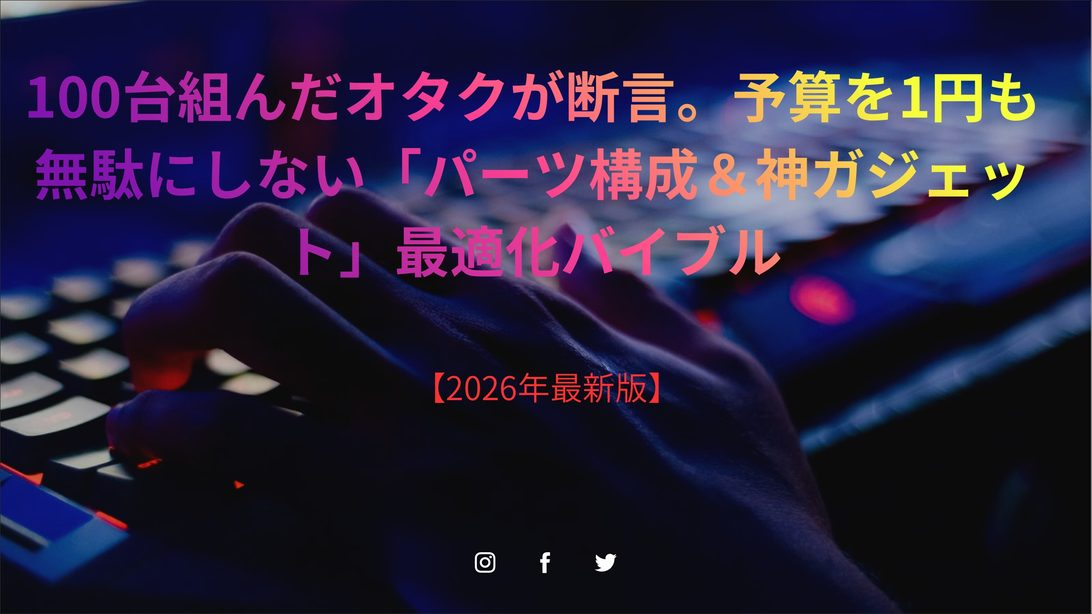
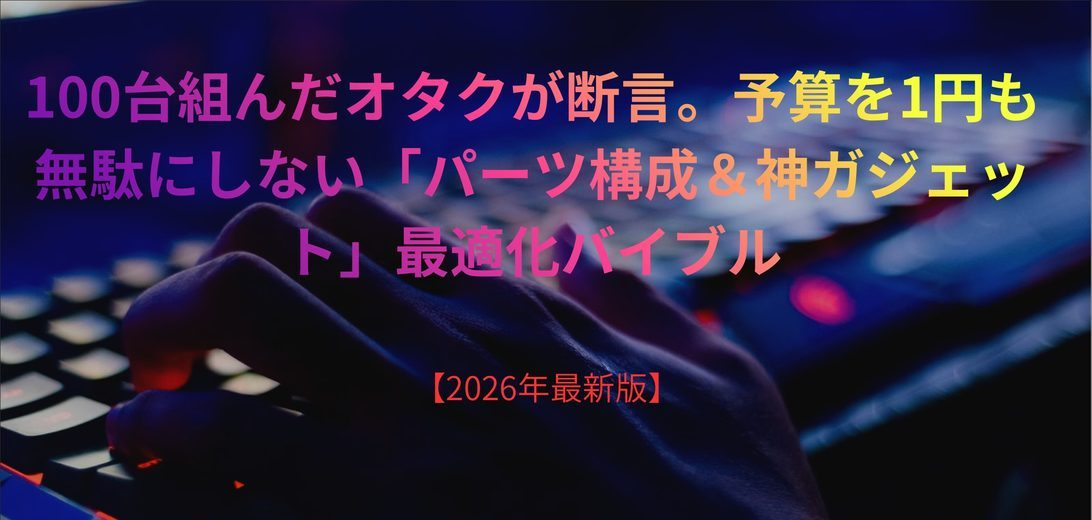
リンク集に Android アプリ4本を個別に載せ、黄金構成比の表紙のアイコンの帯を除き、ペーパーバックのボタンから価格を外した
- links(日英中): 公開中の MediaToolbox・PDF Toolkit・らくらく歩数計・Readshot のカードを追加
- book-pc-parts-bible.jpg を 1092×520 に切り取り(下端の SNS アイコンの帯を除く)、img の height を 520 に
- MY 100 DIVES のボタンを「Amazon でペーパーバックを見る」に(en・zh も価格なし)
- script.js: kindle_click にペーパーバックを含む旨の注記(名前は変えない)
- docs/sns-utm.md に product_promo_202611 を追記、sitemap の lastmod を更新

diff --git a/links/index.html b/links/index.html
@@ -131,6 +131,10 @@
 
       <h2>Androidアプリ</h2>
       <ul class="links-list">
+        <li><a class="links-btn" href="/apps/mediatoolbox/"><img src="/assets/img/mediatoolbox-icon.png" alt="" width="252" height="252" loading="lazy" decoding="async"><span class="links-btn-text"><span class="links-btn-title">MediaToolbox</span><span class="links-btn-sub">動画・画像・音声・PDFをまとめて変換できる、シンプルなマルチメディア変換ツール</span><span class="links-btn-price">無料(広告あり・買い切りで広告を非表示)</span></span></a></li>
+        <li><a class="links-btn" href="/apps/pdftoolkit/"><img src="/assets/img/pdftoolkit-icon.png" alt="" width="252" height="252" loading="lazy" decoding="async"><span class="links-btn-text"><span class="links-btn-title">PDF Toolkit</span><span class="links-btn-sub">スキャン・結合・分割・圧縮・OCR文字認識まで、PDFのよくある作業をこれ1つで</span><span class="links-btn-price">無料(広告あり・PRO版の買い切りで広告・透かしなし)</span></span></a></li>
+        <li><a class="links-btn" href="/apps/seniorpedometer/"><img src="/assets/img/seniorpedometer-icon.png" alt="" width="252" height="252" loading="lazy" decoding="async"><span class="links-btn-text"><span class="links-btn-title">らくらく歩数計</span><span class="links-btn-sub">ボタン操作は不要。自動で歩数を記録する、シニアにやさしい歩数計アプリ</span><span class="links-btn-price">無料(広告あり・アプリ内の課金なし)</span></span></a></li>
+        <li><a class="links-btn" href="/apps/readshot/"><img src="/assets/img/readshot-icon.png" alt="" width="252" height="252" loading="lazy" decoding="async"><span class="links-btn-text"><span class="links-btn-title">Readshot</span><span class="links-btn-sub">スクリーンショットを撮るだけで自動的に文字を読み取る、OCR内蔵のスクリーンショット管理アプリ</span><span class="links-btn-price">無料(広告あり・アプリ内の課金なし)</span></span></a></li>
         <li><a class="links-btn" href="/apps/"><span class="links-btn-text"><span class="links-btn-title">Androidアプリ一覧</span><span class="links-btn-sub">MediaToolbox・PDF Toolkit・らくらく歩数計・Readshot など</span><span class="links-btn-price">無料でダウンロードできます(ほとんどのアプリに広告があります)</span></span></a></li>
       </ul>
 

diff --git a/en/links/index.html b/en/links/index.html
@@ -131,6 +131,10 @@
 
       <h2>Android apps</h2>
       <ul class="links-list">
+        <li><a class="links-btn" href="/en/apps/mediatoolbox/"><img src="/assets/img/mediatoolbox-icon.png" alt="" width="252" height="252" loading="lazy" decoding="async"><span class="links-btn-text"><span class="links-btn-title">MediaToolbox</span><span class="links-btn-sub">A simple multimedia conversion tool that handles video, images, audio, and PDFs all in one place</span><span class="links-btn-price">Free (with ads; a one-time purchase removes them)</span></span></a></li>
+        <li><a class="links-btn" href="/en/apps/pdftoolkit/"><img src="/assets/img/pdftoolkit-icon.png" alt="" width="252" height="252" loading="lazy" decoding="async"><span class="links-btn-text"><span class="links-btn-title">PDF Toolkit</span><span class="links-btn-sub">Scan, merge, split, compress, and recognize text with OCR — the everyday PDF tasks, all in one app</span><span class="links-btn-price">Free (with ads; one-time PRO removes ads and watermark)</span></span></a></li>
+        <li><a class="links-btn" href="/en/apps/seniorpedometer/"><img src="/assets/img/seniorpedometer-icon.png" alt="" width="252" height="252" loading="lazy" decoding="async"><span class="links-btn-text"><span class="links-btn-title">Rakuraku Step Counter</span><span class="links-btn-sub">No buttons to press — automatic step tracking designed to be easy for seniors</span><span class="links-btn-price">Free (with ads; no in-app purchases)</span></span></a></li>
+        <li><a class="links-btn" href="/en/apps/readshot/"><img src="/assets/img/readshot-icon.png" alt="" width="252" height="252" loading="lazy" decoding="async"><span class="links-btn-text"><span class="links-btn-title">Readshot</span><span class="links-btn-sub">Just take a screenshot and it automatically reads the text — a screenshot manager with built-in OCR</span><span class="links-btn-price">Free (with ads; no in-app purchases)</span></span></a></li>
         <li><a class="links-btn" href="/en/apps/"><span class="links-btn-text"><span class="links-btn-title">All Android apps</span><span class="links-btn-sub">MediaToolbox, PDF Toolkit, Rakuraku Step Counter, Readshot and more</span><span class="links-btn-price">Free to download (most of the apps show ads)</span></span></a></li>
       </ul>
 

diff --git a/zh/links/index.html b/zh/links/index.html
@@ -131,6 +131,10 @@
 
       <h2>Android应用</h2>
       <ul class="links-list">
+        <li><a class="links-btn" href="/zh/apps/mediatoolbox/"><img src="/assets/img/mediatoolbox-icon.png" alt="" width="252" height="252" loading="lazy" decoding="async"><span class="links-btn-text"><span class="links-btn-title">MediaToolbox</span><span class="links-btn-sub">可一站式转换视频・图片・音频・PDF的简易多媒体转换工具</span><span class="links-btn-price">免费（含广告；一次性买断可去除广告）</span></span></a></li>
+        <li><a class="links-btn" href="/zh/apps/pdftoolkit/"><img src="/assets/img/pdftoolkit-icon.png" alt="" width="252" height="252" loading="lazy" decoding="async"><span class="links-btn-text"><span class="links-btn-title">PDF Toolkit</span><span class="links-btn-sub">扫描・合并・拆分・压缩・OCR文字识别，PDF的日常操作一个应用全搞定</span><span class="links-btn-price">免费（含广告；PRO买断版去除广告和水印）</span></span></a></li>
+        <li><a class="links-btn" href="/zh/apps/seniorpedometer/"><img src="/assets/img/seniorpedometer-icon.png" alt="" width="252" height="252" loading="lazy" decoding="async"><span class="links-btn-text"><span class="links-btn-title">轻松计步器</span><span class="links-btn-sub">无需按键操作，自动记录步数，专为老年人设计的贴心计步应用</span><span class="links-btn-price">免费（含广告；应用内没有付费项目）</span></span></a></li>
+        <li><a class="links-btn" href="/zh/apps/readshot/"><img src="/assets/img/readshot-icon.png" alt="" width="252" height="252" loading="lazy" decoding="async"><span class="links-btn-text"><span class="links-btn-title">Readshot</span><span class="links-btn-sub">只需拍摄截图，即可自动识别文字的OCR内置截图管理应用</span><span class="links-btn-price">免费（含广告；应用内没有付费项目）</span></span></a></li>
         <li><a class="links-btn" href="/zh/apps/"><span class="links-btn-text"><span class="links-btn-title">Android应用一览</span><span class="links-btn-sub">MediaToolbox・PDF Toolkit・轻松计步器・Readshot 等</span><span class="links-btn-price">可免费下载（大多数应用含广告）</span></span></a></li>
       </ul>
 

diff --git a/books/my-100-dives/index.html b/books/my-100-dives/index.html
@@ -140,7 +140,7 @@
         <img class="book-cover" src="../../assets/img/book-mydivelog-front.png" alt="MY 100 DIVES ダイビングログブック 表紙" width="494" height="764" loading="lazy" decoding="async">
         <h3>MY 100 DIVES：スキューバダイビング・ログブック</h3>
         <p>経験本数の証明に必要な項目（水深・水温・残圧・ウェイト・透視度・サイン欄）をあらかじめ網羅した記入式ログブック。100ダイブ分の記録ページに加え、節目（1・10・25・40・50・60・75・100本）ごとのMILESTONEページ、ダイバープロフィールや器材リスト、和英併記の生物チェックリストも収録。</p>
-        <a class="amazon-badge" href="https://amzn.asia/d/0fyPEuUH?tag=yuttitti-22" target="_blank" rel="noopener sponsored">📖 ¥1,628 でペーパーバックを見る</a>
+        <a class="amazon-badge" href="https://amzn.asia/d/0fyPEuUH?tag=yuttitti-22" target="_blank" rel="noopener sponsored">📖 Amazon でペーパーバックを見る</a>
       </div>
 
       <h2>こんな方におすすめです</h2>
@@ -188,7 +188,7 @@
       <div class="cta-card reveal">
         <h3>次のダイブから、記録を1冊にまとめませんか</h3>
         <p>経験本数の証明に必要な項目がすべて揃っています。100本を目指す方にも、すでに達成した方にも。</p>
-        <a class="amazon-badge" href="https://amzn.asia/d/0fyPEuUH?tag=yuttitti-22" target="_blank" rel="noopener sponsored">📖 ¥1,628 でペーパーバックを見る</a>
+        <a class="amazon-badge" href="https://amzn.asia/d/0fyPEuUH?tag=yuttitti-22" target="_blank" rel="noopener sponsored">📖 Amazon でペーパーバックを見る</a>
       </div>
 
       <div class="author-box">

diff --git a/zh/books/my-100-dives/index.html b/zh/books/my-100-dives/index.html
@@ -141,7 +141,7 @@
         <img class="book-cover" src="../../../assets/img/book-mydivelog-front.png" alt="MY 100 DIVES 潜水日志本 封面" width="494" height="764" loading="lazy" decoding="async">
         <h3>MY 100 DIVES：水肺潜水日志本</h3>
         <p>预先涵盖证明潜水经验所需的各项数据(水深、水温、余压、配重、能见度、签名栏)的填写式日志本。除100次潜水的记录页外，还收录了在关键节点(第1、10、25、40、50、60、75、100次)设置的里程碑页面、潜水员个人资料、装备清单，以及中日双语的生物清单。</p>
-        <a class="amazon-badge" href="https://amzn.asia/d/0fyPEuUH?tag=yuttitti-22" target="_blank" rel="noopener sponsored">📖 在Amazon查看平装本 ¥1,628</a>
+        <a class="amazon-badge" href="https://amzn.asia/d/0fyPEuUH?tag=yuttitti-22" target="_blank" rel="noopener sponsored">📖 在Amazon查看平装本</a>
       </div>
 
       <h2>适合什么样的人？</h2>
@@ -189,7 +189,7 @@
       <div class="cta-card reveal">
         <h3>想把潜水记录整理成一本吗？</h3>
         <p>证明经验所需的项目都已齐全。无论是正在冲击100次，还是已经达成。</p>
-        <a class="amazon-badge" href="https://amzn.asia/d/0fyPEuUH?tag=yuttitti-22" target="_blank" rel="noopener sponsored">📖 在Amazon查看平装本 ¥1,628</a>
+        <a class="amazon-badge" href="https://amzn.asia/d/0fyPEuUH?tag=yuttitti-22" target="_blank" rel="noopener sponsored">📖 在Amazon查看平装本</a>
       </div>
 
       <div class="author-box">

diff --git a/en/books/my-100-dives/index.html b/en/books/my-100-dives/index.html
@@ -137,7 +137,7 @@
         <img class="book-cover" src="../../../assets/img/book-mydivelog-front.png" alt="MY 100 DIVES scuba diving logbook cover" width="494" height="764" loading="lazy" decoding="async">
         <h3>MY 100 DIVES: Scuba Diving Logbook</h3>
         <p>A fill-in dive logbook that already covers everything needed to prove your experience level — depth, water temperature, remaining pressure, weight, visibility, and a sign-off column. Includes 100 dive-log pages, milestone pages at key counts (1, 10, 25, 40, 50, 60, 75, 100 dives), a diver profile, a gear checklist, and a bilingual (Japanese/English) marine-life checklist.</p>
-        <a class="amazon-badge" href="https://amzn.asia/d/0fyPEuUH" target="_blank" rel="noopener">📖 View the paperback on Amazon — ¥1,628</a>
+        <a class="amazon-badge" href="https://amzn.asia/d/0fyPEuUH" target="_blank" rel="noopener">📖 View the paperback on Amazon</a>
       </div>
 
       <h2>Who is this for?</h2>
@@ -185,7 +185,7 @@
       <div class="cta-card reveal">
         <h3>Ready to bring your dive log into one book?</h3>
         <p>Every field you need to prove your experience is already there. Whether you're working toward 100 dives or already have.</p>
-        <a class="amazon-badge" href="https://amzn.asia/d/0fyPEuUH" target="_blank" rel="noopener">📖 View the paperback on Amazon — ¥1,628</a>
+        <a class="amazon-badge" href="https://amzn.asia/d/0fyPEuUH" target="_blank" rel="noopener">📖 View the paperback on Amazon</a>
       </div>
 
       <div class="author-box">

diff --git a/index.html b/index.html
@@ -1266,13 +1266,13 @@
               ダイバープロフィールや器材リスト、和英併記の生物チェックリストも収録。プロコースを目指す方から、
               趣味として記録を残したい方まで。
             </p>
-            <a class="amazon-badge" href="https://amzn.asia/d/0fyPEuUH?tag=yuttitti-22" target="_blank" rel="noopener sponsored" data-i18n="book1_cta">📖 ¥1,628 でペーパーバックを見る</a>
+            <a class="amazon-badge" href="https://amzn.asia/d/0fyPEuUH?tag=yuttitti-22" target="_blank" rel="noopener sponsored" data-i18n="book1_cta">📖 Amazon でペーパーバックを見る</a>
           </div>
           <p class="gear-note"><a class="topic-card-more" href="/books/my-100-dives/">収録内容を詳しく見る →</a></p>
         </article>
 
         <article class="book-card reveal">
-          <img class="book-cover" src="assets/img/book-pc-parts-bible.jpg" alt="パソコンの黄金構成比で自作できるパーツ構成&神ガジェット最適化バイブル 表紙" width="1092" height="614" loading="lazy" decoding="async">
+          <img class="book-cover" src="assets/img/book-pc-parts-bible.jpg" alt="パソコンの黄金構成比で自作できるパーツ構成&神ガジェット最適化バイブル 表紙" width="1092" height="520" loading="lazy" decoding="async">
           <div class="book-body">
             <div class="badge-row">
               <span class="book-tag" data-i18n="book_tag_pcguide">自作PCガイド</span>

diff --git a/column/keyboard-mod-silent-typing.html b/column/keyboard-mod-silent-typing.html
@@ -196,7 +196,7 @@
       <p>Keychron Q3 Ultra 8Kという十分に完成度の高いベースから始めて、キーキャップとスイッチを段階的に見直していくことで、静音性・打鍵感・見た目のすべてを自分好みに近づけることができました。深夜の作業環境を整えたい方、静音性にこだわりたい方は、ホットスワップ対応キーボードでのパーツ換装から始めてみるのがおすすめです。</p>
 
       <div class="cta-card reveal">
-        <img class="book-cover" src="../assets/img/book-pc-parts-bible.jpg" alt="パソコンの黄金構成比で自作できるパーツ構成&神ガジェット最適化バイブル 表紙" width="1092" height="614" loading="lazy" decoding="async">
+        <img class="book-cover" src="../assets/img/book-pc-parts-bible.jpg" alt="パソコンの黄金構成比で自作できるパーツ構成&神ガジェット最適化バイブル 表紙" width="1092" height="520" loading="lazy" decoding="async">
         <h3>パソコンの黄金構成比で自作できるパーツ構成&神ガジェット最適化バイブル</h3>
         <p>100台以上の自作実績を持つ著者が、予算を無駄にしない黄金構成と、作業効率を上げる神周辺機器の選び方を徹底解説したKindle書籍です。</p>
         <a class="amazon-badge" href="https://amzn.asia/d/03SI9M8q?tag=yuttitti-22" target="_blank" rel="noopener sponsored">📖 ¥480 でKindleを読む</a>

diff --git a/en/column/pc-parts-priority-cpu-memory-gpu.html b/en/column/pc-parts-priority-cpu-memory-gpu.html
@@ -174,7 +174,7 @@
       <p>A graphics card only needs to meet the recommended specs for the games you want to play — stacking more beyond that produces only a barely noticeable difference, which is the real conclusion I reached from running three of them. CPU and memory, on the other hand, are high-return parts that directly shape comfort in every scenario of using a PC. If you're stuck on which parts to choose, I'd recommend going back to how you actually use your PC and setting your priorities from there.</p>
 
       <div class="cta-card reveal">
-        <img class="book-cover" src="../../assets/img/book-pc-parts-bible.jpg" alt="The Golden Ratio PC Build Bible — Japanese edition cover" width="1092" height="614" loading="lazy" decoding="async">
+        <img class="book-cover" src="../../assets/img/book-pc-parts-bible.jpg" alt="The Golden Ratio PC Build Bible — Japanese edition cover" width="1092" height="520" loading="lazy" decoding="async">
         <h3>The Golden Ratio PC Build Bible: Three Balanced Custom-PC Builds and Desk Upgrades for 2026</h3>
         <p>A Kindle book by an author with 100+ custom PC builds: three balanced builds using parts sold in the US (about $1,100, $1,800 and $3,000–3,500, with prices checked mostly in October 2026), each with a parts table explaining why each part was chosen, plus a before-you-buy checklist.</p>
         <div class="cta-badge-row" style="display:flex; gap:12px; justify-content:center; flex-wrap:wrap; margin-bottom:12px;">

diff --git a/column/pc-parts-priority-cpu-memory-gpu.html b/column/pc-parts-priority-cpu-memory-gpu.html
@@ -178,7 +178,7 @@
       <p>グラフィックボードは、やりたいゲームの推奨スペックを満たせば十分で、それ以上積んでも体感できる差はわずかというのが実際に3枚積んで得た結論です。一方でCPUとメモリは、PCを使うあらゆる場面の快適さに直結する、投資対効果の高いパーツです。パーツ選びに迷ったら、まず自分の使い方に立ち返って優先順位をつけることをおすすめします。</p>
 
       <div class="cta-card reveal">
-        <img class="book-cover" src="../assets/img/book-pc-parts-bible.jpg" alt="パソコンの黄金構成比で自作できるパーツ構成&神ガジェット最適化バイブル 表紙" width="1092" height="614" loading="lazy" decoding="async">
+        <img class="book-cover" src="../assets/img/book-pc-parts-bible.jpg" alt="パソコンの黄金構成比で自作できるパーツ構成&神ガジェット最適化バイブル 表紙" width="1092" height="520" loading="lazy" decoding="async">
         <h3>パソコンの黄金構成比で自作できるパーツ構成&神ガジェット最適化バイブル</h3>
         <p>100台以上の自作実績を持つ著者が、予算を1円も無駄にしない黄金構成を徹底解説したKindle書籍です。</p>
         <a class="amazon-badge" href="https://amzn.asia/d/03SI9M8q?tag=yuttitti-22" target="_blank" rel="noopener sponsored">📖 ¥480 でKindleを読む</a>

diff --git a/zh/index.html b/zh/index.html
@@ -1265,13 +1265,13 @@
               除100次潜水的记录页外，还收录了在关键节点（第1、10、25、40、50、60、75、100次）设置的里程碑页面、潜水员个人资料、装备清单，
               以及日英对照的海洋生物检查表。适合以专业课程为目标的潜水员，也适合单纯想记录潜水足迹的爱好者。
             </p>
-            <a class="amazon-badge" href="https://amzn.asia/d/0fyPEuUH?tag=yuttitti-22" target="_blank" rel="noopener sponsored">📖 在Amazon查看平装本 ¥1,628</a>
+            <a class="amazon-badge" href="https://amzn.asia/d/0fyPEuUH?tag=yuttitti-22" target="_blank" rel="noopener sponsored">📖 在Amazon查看平装本</a>
           </div>
           <p class="gear-note"><a class="topic-card-more" href="/zh/books/my-100-dives/">查看本书详细内容 →</a></p>
         </article>
 
         <article class="book-card reveal">
-          <img class="book-cover" src="../assets/img/book-pc-parts-bible.jpg" alt="电脑黄金配置比例装机指南 封面" width="1092" height="614" loading="lazy" decoding="async">
+          <img class="book-cover" src="../assets/img/book-pc-parts-bible.jpg" alt="电脑黄金配置比例装机指南 封面" width="1092" height="520" loading="lazy" decoding="async">
           <div class="book-body">
             <div class="badge-row">
               <span class="book-tag">自组装电脑指南</span>

diff --git a/en/index.html b/en/index.html
@@ -1261,13 +1261,13 @@
               Includes 100 dive-log pages, milestone pages at key counts (1, 10, 25, 40, 50, 60, 75, 100 dives), a diver profile, a gear checklist, and a bilingual (Japanese/English) marine-life checklist.
               For anyone working toward a pro rating, or simply keeping a personal record.
             </p>
-            <a class="amazon-badge" href="https://amzn.asia/d/0fyPEuUH" target="_blank" rel="noopener">📖 View the paperback on Amazon — ¥1,628</a>
+            <a class="amazon-badge" href="https://amzn.asia/d/0fyPEuUH" target="_blank" rel="noopener">📖 View the paperback on Amazon</a>
           </div>
           <p class="gear-note"><a class="topic-card-more" href="/en/books/my-100-dives/">See what this book covers →</a></p>
         </article>
 
         <article class="book-card reveal">
-          <img class="book-cover" src="../assets/img/book-pc-parts-bible.jpg" alt="The Golden Ratio PC Build Bible — Japanese edition cover" width="1092" height="614" loading="lazy" decoding="async">
+          <img class="book-cover" src="../assets/img/book-pc-parts-bible.jpg" alt="The Golden Ratio PC Build Bible — Japanese edition cover" width="1092" height="520" loading="lazy" decoding="async">
           <div class="book-body">
             <div class="badge-row">
               <span class="book-tag">PC Build Guide</span>
